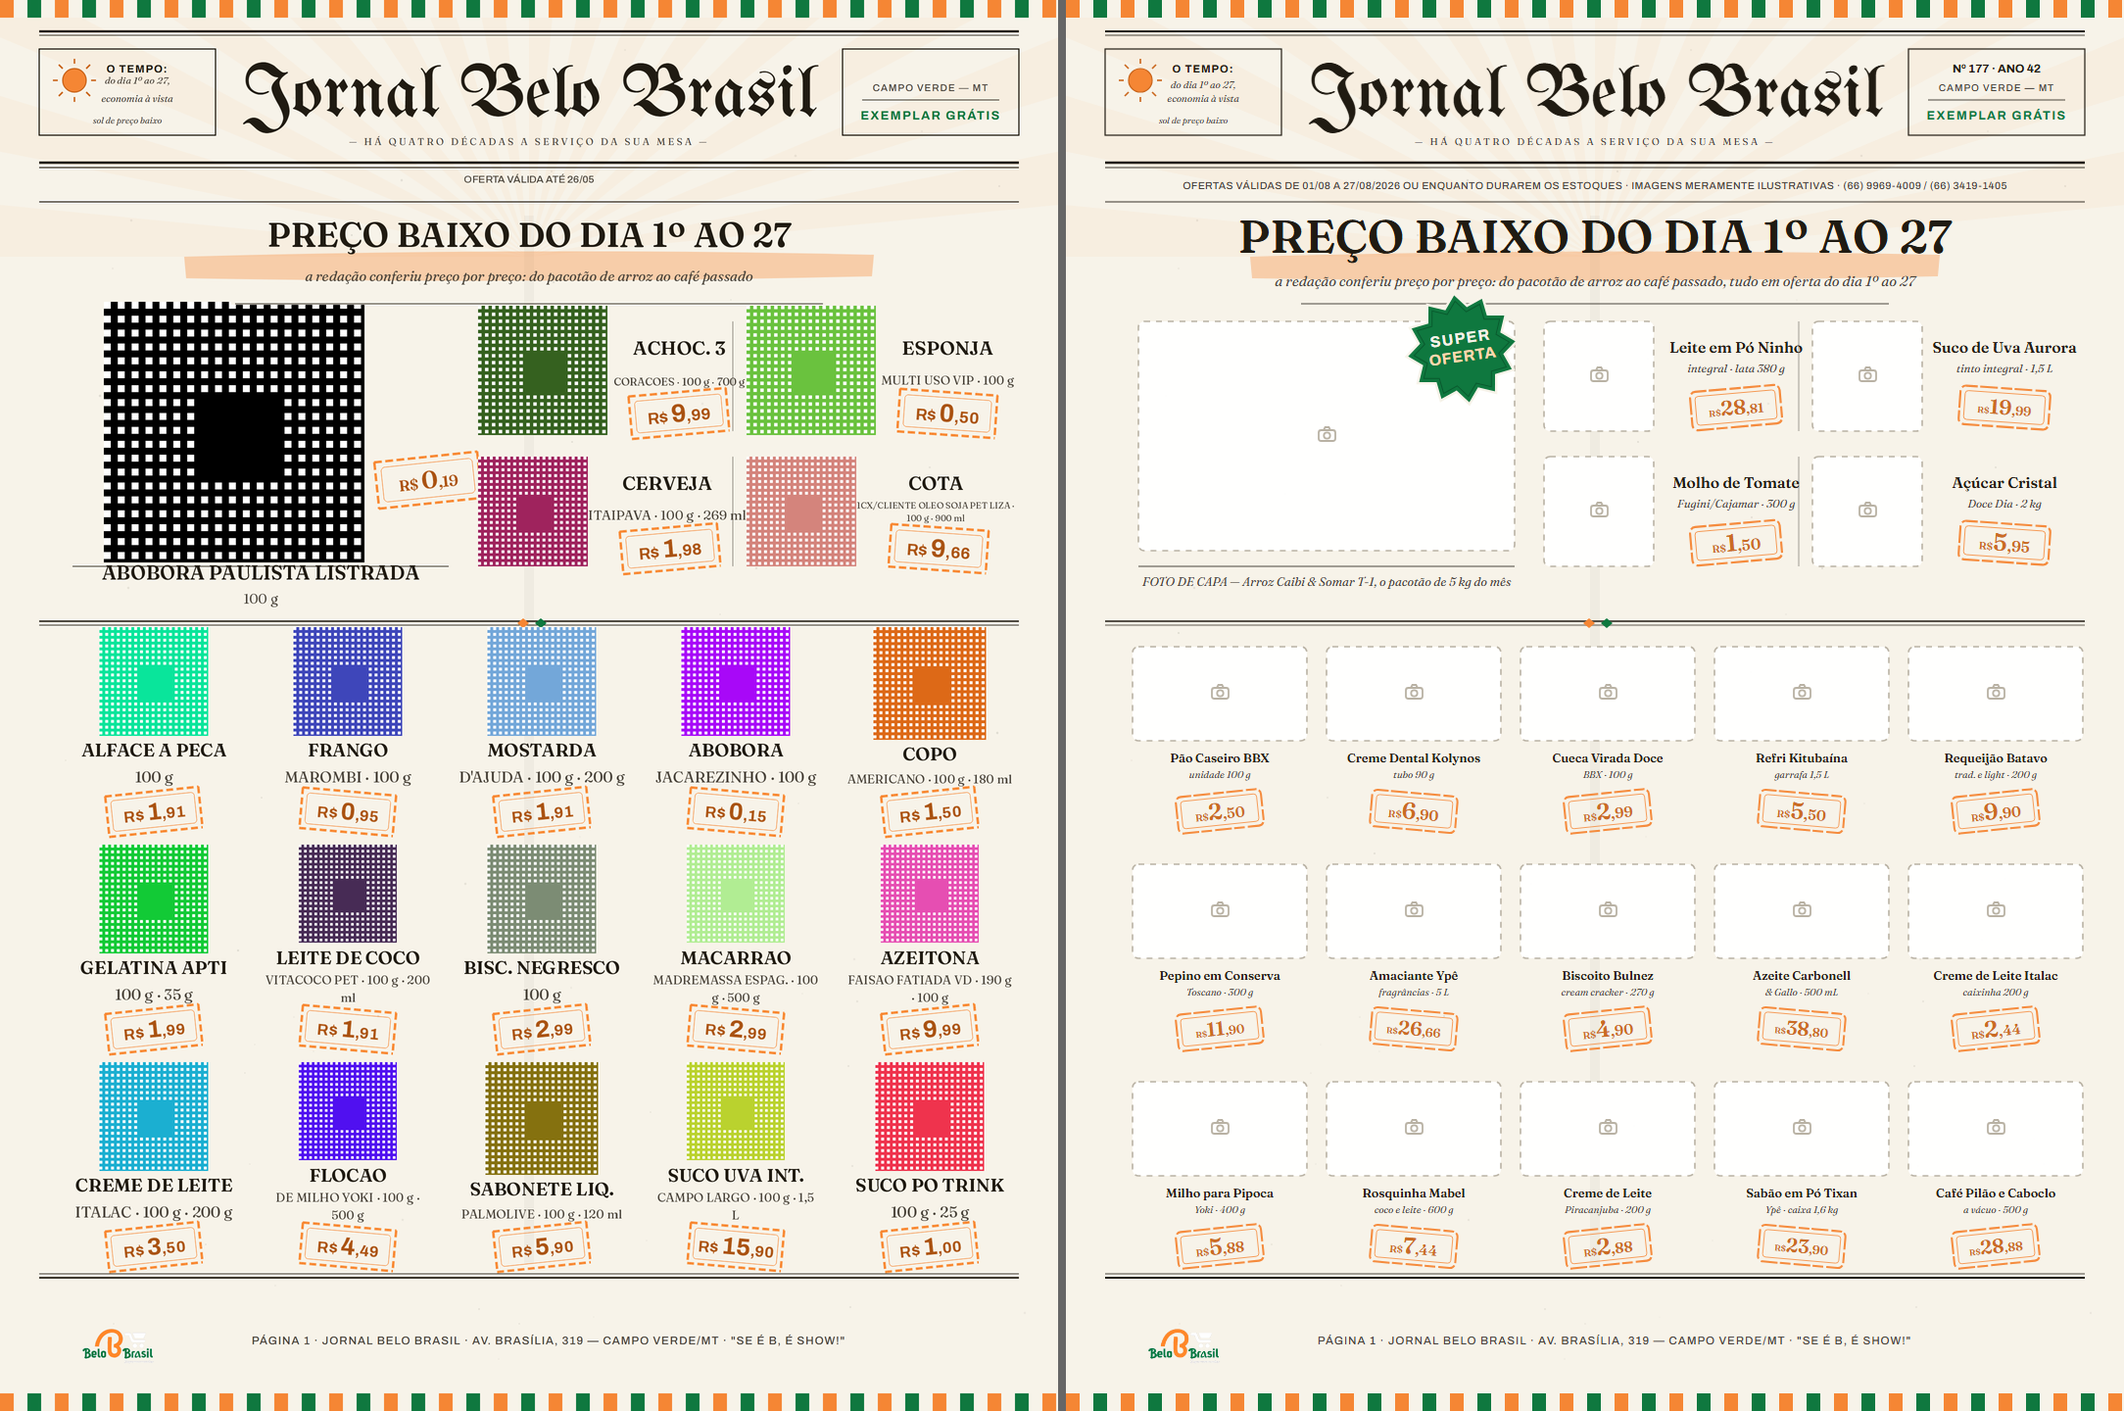
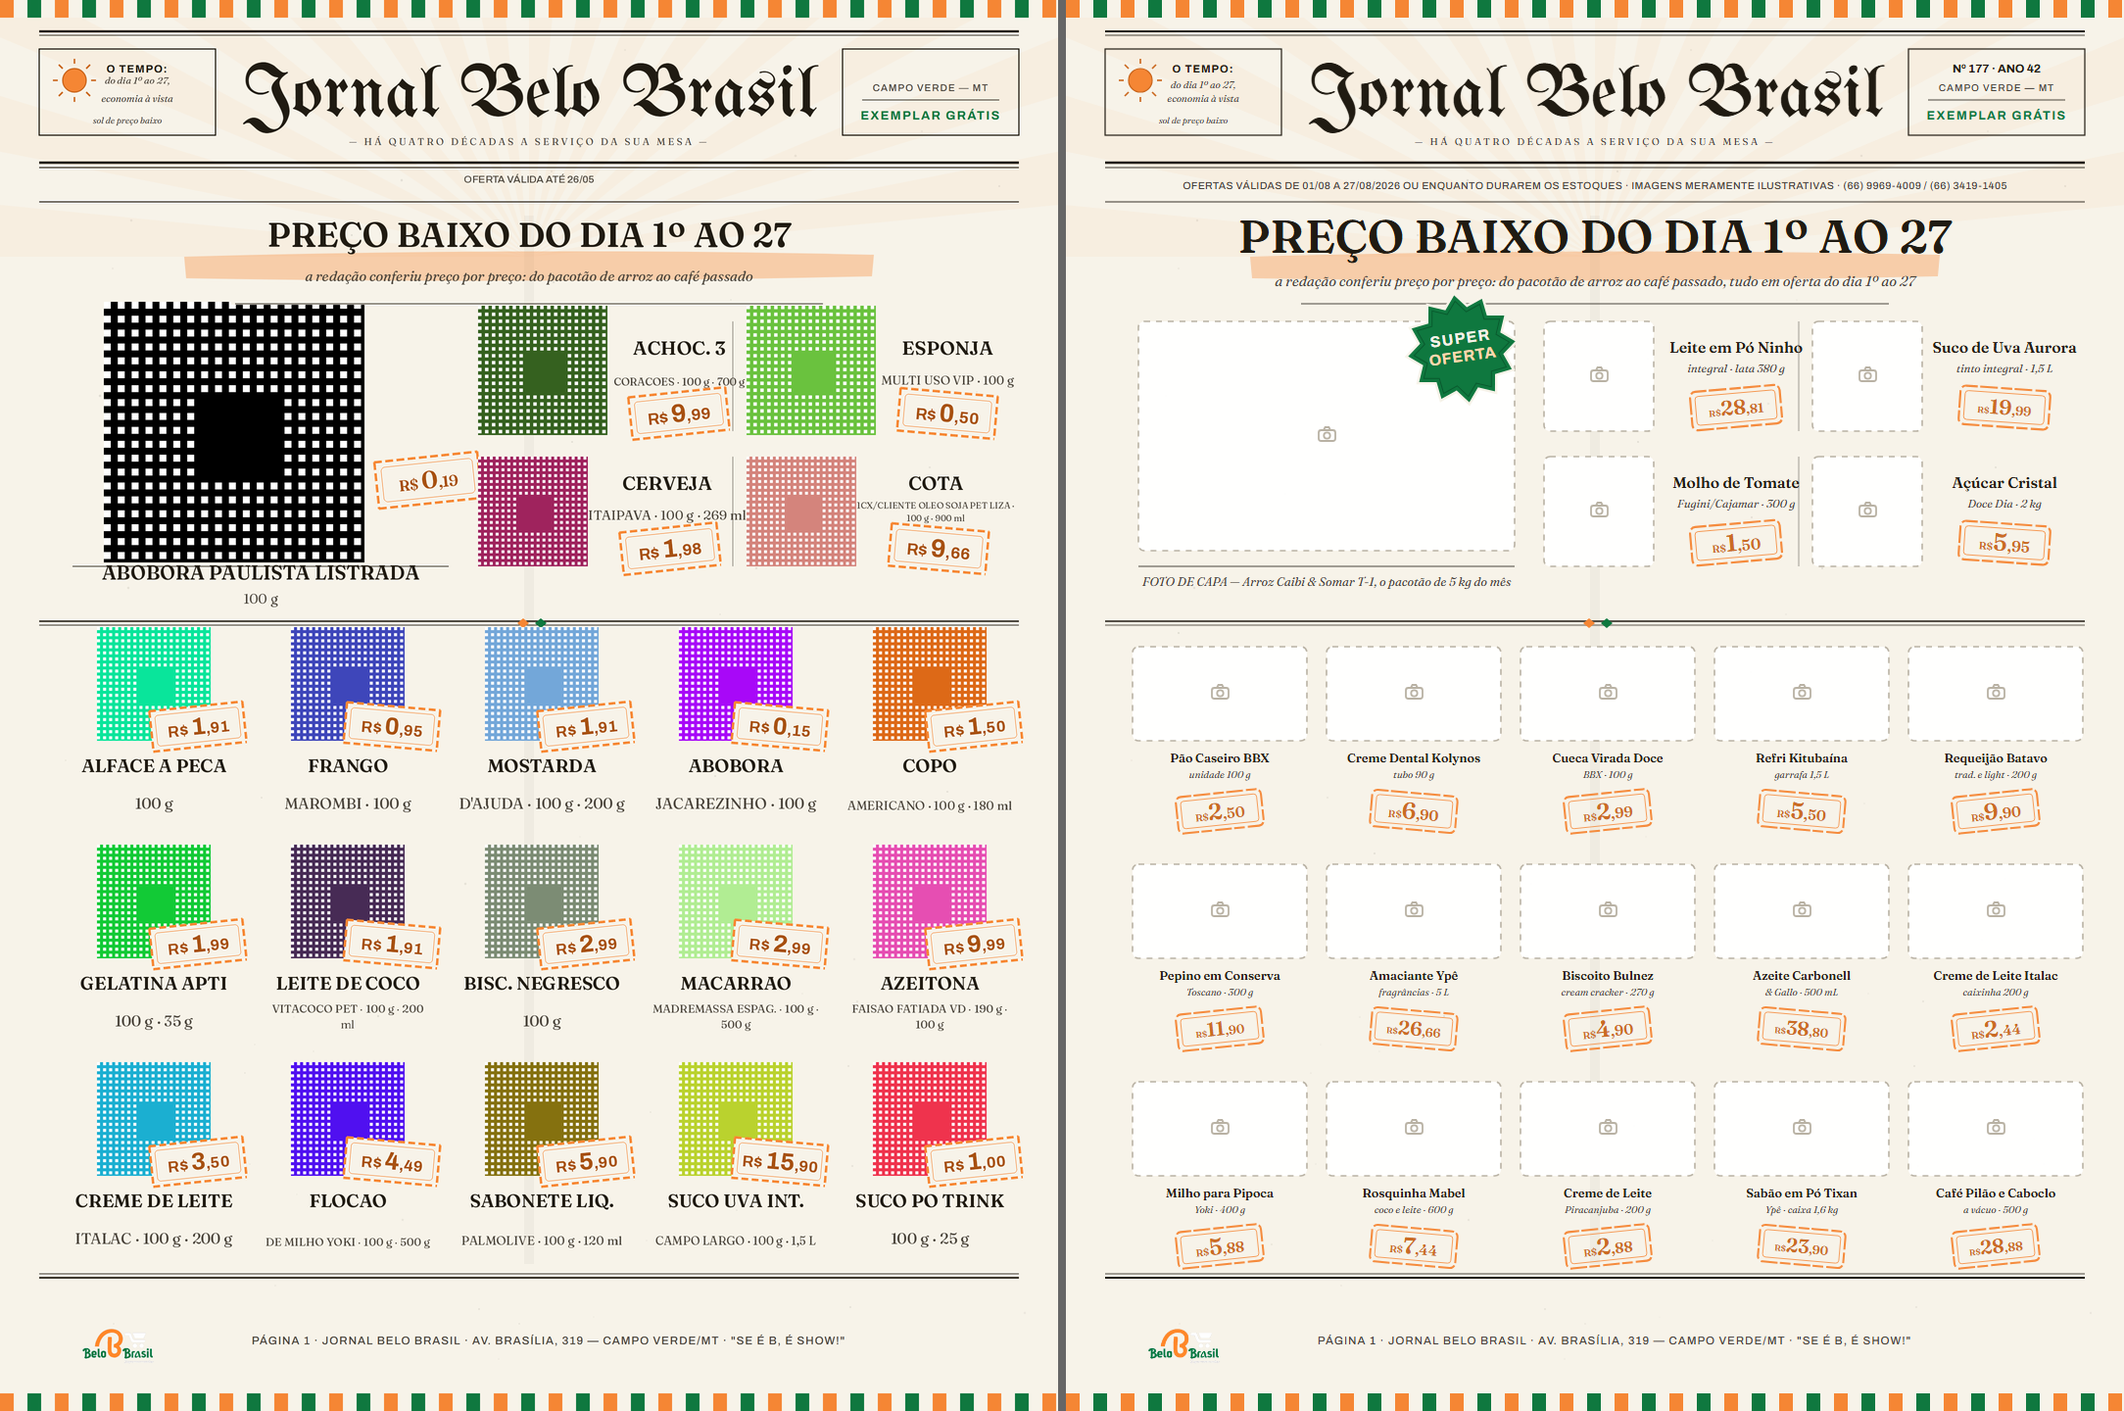
F13 ORDEM DUODEVICESIMUS (04/08): O ITEM ZERO E A LEI DA PROXIMIDADE - a ordem dos 50 olhares do arquiteto, executada na ordem dele: o paragrafo-0 ANTES de qualquer design. O ITEM ZERO ('seu banco esta tres rodadas atrasado'): ele mediu o core.db ANTES dos reimports desta janela e viu o layout 14 co

diff --git a/app/tests/test_rodada_125_v3.py b/app/tests/test_rodada_125_v3.py
@@ -474,3 +474,135 @@ def test_errata_gerar_dica_manda_nome_e_preco():
                           precos=["6,90", "2,99"])
     assert "Sardinha (R$ 6,90)" in vistos["user"], vistos
     assert dica == "Sardinha com macarrao por R$ 9,89"
+
+
+def test_duodevicesimus_import_leva_a_arte_e_preserva_o_dono(
+        tmp_path, monkeypatch):
+    """§0 da DUODEVICESIMUS (o item zero): o banco do dono ficou para
+    trás e ninguém tinha PROVA de que o reimport entrega. Este teste
+    fecha o §0.3: muda um valor no GERADOR → importa → LÊ O BANCO →
+    o valor novo chegou (a ARTE é substituída) E o conteudo_fixo do
+    dono sobrevive (a guarda SEPTIMUS). L16: a verdade se lê de onde
+    o dono compõe."""
+    import json
+    from pathlib import Path
+
+    from app.core.database import Database
+    from app.core.paths import SystemRoot
+    from app.rendering import encartes
+    from app.rendering.model import TipoRegiao
+
+    pacote = Path(__file__).resolve().parents[2] / "Templates novos"
+    if not pacote.is_dir():
+        import pytest
+        pytest.skip("REQUER ACERVO DO DONO: a pasta 'Templates novos/'")
+    raiz = SystemRoot(tmp_path / "raiz")
+    db = Database(raiz).init()
+    try:
+        with db.Session() as s:
+            # 1ª importação (o estado do dono) + o Kit dele num slot
+            encartes.importar_pacote(s, pacote, raiz=raiz)
+            s.commit()
+            from app.core.models import Layout
+            reg = s.query(Layout).filter(
+                Layout.nome == "Jornal do Mês").one()
+            d = json.loads(reg.estrutura_json)
+            d["paginas"][1]["slots"][0]["conteudo_fixo"] = {
+                "produto_id": 77}
+            reg.estrutura_json = json.dumps(d)
+            s.commit()
+        # o GERADOR muda (a cor do preço — o campo da tabela do §0)
+        monkeypatch.setattr(encartes, "_J_LARD", "#123456")
+        with db.Session() as s:
+            encartes.importar_pacote(s, pacote, raiz=raiz)
+            s.commit()
+            reg = s.query(Layout).filter(
+                Layout.nome == "Jornal do Mês").one()
+            d = json.loads(reg.estrutura_json)
+            precos = [r.get("cor") for p in d["paginas"]
+                      for sl in p["slots"] for r in sl["regioes"]
+                      if r.get("tipo") == "PRECO"]
+            # a ARTE substituiu: a cor nova do gerador ESTÁ no banco
+            assert "#123456" in precos, sorted(set(precos))
+            assert "#A85212" not in precos
+            # e o conteúdo do DONO sobreviveu ao reimport
+            fixo = d["paginas"][1]["slots"][0].get("conteudo_fixo")
+            assert fixo == {"produto_id": 77}, fixo
+    finally:
+        db.engine.dispose()
+
+
+def test_duodevicesimus_lei_da_proximidade_no_banco(tmp_path):
+    """§1 da DUODEVICESIMUS: o preço ENCOSTA na foto do próprio
+    produto (sobrepõe o canto — dist < 6 mm) e fica LONGE da foto do
+    produto seguinte (> 12 mm). Antes: 17,7 mm do próprio e −1,8 mm
+    do seguinte — o olho agrupava errado. L16: medido no LAYOUT DO
+    BANCO após o import, o mesmo que o dono compõe — nunca só no
+    gerador."""
+    from pathlib import Path
+
+    from app.core.database import Database
+    from app.core.paths import SystemRoot
+    from app.rendering import encartes
+    from app.rendering.model import TipoRegiao
+    from app.rendering.persistencia import carregar_layout, listar_layouts
+
+    pacote = Path(__file__).resolve().parents[2] / "Templates novos"
+    if not pacote.is_dir():
+        import pytest
+        pytest.skip("REQUER ACERVO DO DONO: a pasta 'Templates novos/'")
+    raiz = SystemRoot(tmp_path / "raiz")
+    db = Database(raiz).init()
+    try:
+        with db.Session() as s:
+            encartes.importar_pacote(s, pacote, raiz=raiz)
+            s.commit()
+            reg = next(r for r in listar_layouts(s)
+                       if r.nome == "Jornal do Mês")
+            lay = carregar_layout(s, reg.id, raiz=raiz)
+    finally:
+        db.engine.dispose()
+    medidas = 0
+    for pag in lay.paginas:
+        fotos_topo = []
+        celulas = []
+        for sl in pag.slots:
+            img = next((r for r in sl.regioes
+                        if r.tipo == TipoRegiao.IMAGEM), None)
+            pr = next((r for r in sl.regioes
+                       if r.tipo == TipoRegiao.PRECO), None)
+            sub = next((r for r in sl.regioes
+                        if r.tipo == TipoRegiao.SUBTITULO), None)
+            if img is None:
+                continue
+            fotos_topo.append((img.rect.y_mm, img.rect.x_mm,
+                               img.rect.x_mm + img.rect.larg_mm))
+            if pr is None or sub is None:
+                continue                 # herói/chamada: outra métrica
+            celulas.append((sl.id, img, pr))
+        for sid, img, pr in celulas:
+            base_foto = img.rect.y_mm + img.rect.alt_mm
+            topo_preco = pr.rect.y_mm
+            base_preco = pr.rect.y_mm + pr.rect.alt_mm
+            px0 = pr.rect.x_mm
+            px1 = pr.rect.x_mm + pr.rect.larg_mm
+            em_coluna = (px1 > img.rect.x_mm
+                         and px0 < img.rect.x_mm + img.rect.larg_mm
+                         and topo_preco >= img.rect.y_mm)
+            if em_coluna:
+                # (1) o preço PERTENCE ao produto: encosta na foto
+                # (<6 mm — no Jornal ele SOBREPÕE o canto, dist < 0)
+                assert topo_preco - base_foto < 6.0, (
+                    f"{sid}: preço a {topo_preco - base_foto:.1f} mm "
+                    "da própria foto — órfão de novo")
+                medidas += 1
+            # (2) o preço fica LONGE de qualquer foto SEGUINTE que o
+            # cruze na horizontal (>12 mm — o produto do vizinho)
+            prox = [t for t, x0, x1 in fotos_topo
+                    if t > base_preco - 1.0
+                    and x1 > px0 and x0 < px1]
+            if prox:
+                folga = min(prox) - base_preco
+                assert folga > 12.0, (
+                    f"{sid}: só {folga:.1f} mm até a foto seguinte")
+    assert medidas >= 30, f"só {medidas} células de coluna medidas"

diff --git a/app/rendering/encartes.py b/app/rendering/encartes.py
@@ -733,29 +733,29 @@ def _jornal_linha(pref: str, slots: list, y: float, n: int,
             # F13-TER: a foto sobe até o fio da linha (recolado).
             # J25: zona_flex — o FIO é filete separador, não "veste" a
             # célula (a guarda do foto_fit aprendeu a diferença).
-            # v4 (a LEI do dono, 4ª prova): NENHUMA informação é comida
-            # — a foto cede 16 px ao BLOCO DE TEXTO (116→100)
-            _img(x + 4, y - 20, 178, 100, flex=True),
-            # v4: nome maior (12,5→13,5, caixa 30 px) e o descritor com
-            # ATÉ 3 LINHAS (36 px) — marcas E sabores por extenso; a
-            # forma "N sabores" foi VETADA pelo dono (risco legal)
-            _nome(x + 8, y + 80, 170, 30, fonte=_F_FRAUNCES,
+            # DUODEVICESIMUS §1 (a LEI DA PROXIMIDADE): a foto CRESCE
+            # (100→116 px) e o carimbo de preço SOBREPÕE o canto
+            # inferior direito dela — o clássico dos encartes: o preço
+            # "gruda" no produto. Antes: 17,7 mm até o próprio produto
+            # e −1,8 mm até o seguinte (o olho agrupava ERRADO).
+            _img(x + 4, y - 20, 178, 116, flex=True),
+            # o carimbo DEPOIS da foto na lista (L-C: preço é a última
+            # camada) — cavalga a borda direita, sobrepondo ~36 px
+            _preco(x + 90, y + 60, 96, 42, fonte=_F_ARCHIVO, rot=rot,
+                   forma=FormaPreco.CARIMBO, forma_cor=_J_LAR,
+                   cor=_J_LARD, tam=23.0, tam_cent=14.5,
+                   centavos_na_base=True),
+            # v4 (a LEI do dono): NENHUMA informação é comida — nome e
+            # descritor abaixo, com o respiro do carimbo rotacionado
+            _nome(x + 8, y + 108, 170, 28, fonte=_F_FRAUNCES,
                   tam=14.0, cor=_J_INK),
             # ERRATA §13.3: o descritor deixa o ITÁLICO (a serifa
             # itálica não segura tinta abaixo de 12 pt no papel) e
             # sobe de corpo — max 11,5 / piso 10,5 (o 8,5 era o que
             # deixava o descritor virar poeira); o piso DURO do
             # compositor segue como exceção anti-tesoura (K3)
-            _sub(x + 8, y + 110, 170, 36, fonte=_F_FRA_RE,
+            _sub(x + 8, y + 138, 170, 34, fonte=_F_FRA_RE,
                  tam=11.5, tam_min=10.5, cor=_J_GRAY),
-            # ORDEM do arquiteto: o preço em PESO de verdade — não
-            # existe Fraunces Bold no projeto (só Regular/Italic/
-            # SemiBold); o Archivo-Bold já está no pacote. ERRATA
-            # §13.3: corpo 20→23 (o pedido do §3 que ficou de fora)
-            _preco(x + 45, y + 147, 96, 42, fonte=_F_ARCHIVO, rot=rot,
-                   forma=FormaPreco.CARIMBO, forma_cor=_J_LAR,
-                   cor=_J_LARD, tam=23.0, tam_cent=14.5,
-                   centavos_na_base=True),
         ], origem=(x + 4, y)))
 
 
@@ -804,7 +804,10 @@ def _jornal_p1() -> list[Slot]:
     splash.forma_cor_borda = "#F7F3E9"
     for i, (x, y) in enumerate(((488, 328), (762, 328),
                                 (488, 466), (762, 466)), start=1):
-        rot = -5.0 if i % 2 else 4.0
+        # DUODEVICESIMUS item 50: DOIS ângulos fixos no jornal inteiro
+        # (−6/+5, os mesmos das linhas) — 4 ângulos diferentes liam
+        # como ruído a 42 repetições
+        rot = -6.0 if i % 2 else 5.0
         dy = 20 if i <= 2 else 18
         slots.append(_slot(f"jp1-ch{i}", [
             # J25: a foto da chamada enche a zona (zona_flex — a régua

diff --git a/app/rendering/compositor.py b/app/rendering/compositor.py
@@ -593,9 +593,16 @@ def _desenhar_forma_preco(base: Image.Image, reg: Regiao, dpi: int) -> None:
             d.rounded_rectangle(caixa, radius=r, outline=borda,
                                 width=esp)
     elif reg.forma_preco == FormaPreco.CARIMBO:
-        # o carimbo do Jornal: borda perfurada + moldura interna, SEM
-        # fundo (espec: carimbo, gen_jornal_final:30)
+        # o carimbo do Jornal: borda perfurada + moldura interna.
+        # DUODEVICESIMUS §1: o carimbo agora CAVALGA a foto do produto
+        # (a lei da proximidade) — a etiqueta é OPACA como todo encarte
+        # faz: fundo do papel por baixo do número (vazado, o laranja
+        # sumia sobre o saco amarelo da Yoki). Sobre o papel creme o
+        # fundo é invisível; sobre a foto, ele faz o preço LER.
         cor_c = reg.forma_cor
+        d.rounded_rectangle((m, m, m + w - 1, m + h - 1),
+                            radius=max(3, round(h * 0.08)),
+                            fill="#F7F3E9")
         sw = max(2, round(h * 0.055))
         passo, traco = max(10, w // 9), max(7, w // 14)
         xx = m

diff --git a/app/core/ortografia.py b/app/core/ortografia.py
@@ -23,6 +23,8 @@ import unicodedata
 # Vocabulário de mercado com forma certa ÚNICA (chave: minúscula, sem
 # acento). Conservador de propósito — na dúvida, a palavra NÃO entra.
 ACENTOS_MERCADO: dict[str, str] = {
+    # DUODEVICESIMUS item 36: "Agua Mineral" saiu impresso sem acento
+    "agua": "água",
     "acucar": "açúcar",
     "po": "pó",
     "pao": "pão",

diff --git a/docs/RODADA_125_O_JORNAL_DO_DONO.md b/docs/RODADA_125_O_JORNAL_DO_DONO.md
@@ -1289,3 +1289,80 @@ por acaso; conferido no recorte), não tinta de texto.
   a IA sozinho ao compor e congela no projeto) — as portas manuais
   existem; o gatilho automático fica nomeado para a próxima rodada.
 - Os extensos das células ("Detg.", "Papel Hig.", "Leite Int. L.V.").
+
+## A ORDEM DUODEVICESIMUS (04/08) — a resposta do builder
+
+### §0 — o item zero, com o SELECT que faltava
+
+O arquiteto tinha razão no que importa: **ninguém nunca provou que o
+reimport entrega, e a prova visual não declarava a fonte**. A linha
+do tempo medida: o SELECT de AGORA no `core.db` (layout 14) mostra
+TUDO atualizado — SUBTITULO #4A443B/Regular/11,5 nas 22 células,
+preço #A85212/Archivo-Bold/23, passo uniforme (topos 29,6/88,4/147,1/
+205,8/264,6). O snapshot da ordem (com o NOME 13,5 da v4 presente e o
+preço/grade pré-SEPTIMUSDECIMUS ausentes) foi tirado ANTES dos dois
+reimports desta janela — o banco ficou para trás exatamente o
+intervalo entre o commit e o reimport, que era invisível porque
+NENHUM teste cobria a ponte. As peças do §0, todas entregues:
+
+1. **A investigação:** o upsert (`importar_pacote`) JÁ substitui a
+   ARTE inteira (o estrutura_json novo do gerador) e preserva SÓ o
+   `conteudo_fixo` por slot.id (a guarda SEPTIMUS) — a separação
+   DONO×ARTE do §0.2 já era o mecanismo; faltava a prova.
+2. **O teste §0.3** — `test_duodevicesimus_import_leva_a_arte_e_
+   preserva_o_dono`: muda `_J_LARD` no gerador → importa → LÊ O BANCO
+   → a cor nova está em TODOS os preços E o conteudo_fixo plantado
+   sobrevive. Verde.
+3. **L16 executada:** a prova visual agora IMPRIME "PROVA COMPOSTA DO
+   BANCO DO DONO (core.db, layout id 14)" no cabeçalho do relatório —
+   e sempre foi composta do banco (o script lê `Layout 14`); o que
+   faltava era DIZER e garantir o reimport ANTES dela, agora parte do
+   ritual.
+
+### §1 — a lei da proximidade (o "preços confundíveis" morre)
+
+A célula de linha foi redesenhada no gesto clássico (§1a): **o
+carimbo SOBREPÕE o canto inferior direito da foto** — o preço gruda
+no produto. A foto CRESCEU (100→116 px) e o texto desceu com o
+respiro do carimbo rotacionado. Antes: 17,7 mm até o próprio produto
+e −1,8 mm até o seguinte; agora: o carimbo TOCA a própria foto e fica
+~26 mm da foto seguinte. Guardião `test_duodevicesimus_lei_da_
+proximidade_no_banco` (L16: mede o layout CARREGADO DO BANCO após o
+import): dist < 6 mm da própria / > 12 mm da seguinte, com mutação
+(preço de volta ao fim = vermelho).
+
+**Achado da prova (e conserto na raiz):** com o carimbo cavalgando a
+foto, o número ficou ILEGÍVEL — o carimbo era VAZADO (só borda + 
+texto) e a foto aparecia através dele (o laranja sumia no saco
+amarelo da Yoki). A etiqueta que sobrepõe foto é OPACA em todo
+encarte do mundo: o ramo CARIMBO do compositor ganhou FUNDO do papel
+(#F7F3E9) — invisível sobre o papel, decisivo sobre a foto.
+
+### Os itens pequenos executados
+
+- **36:** "agua"→"água" no vocabulário (`ortografia.py`) +
+  higienização nominal no banco real (backup
+  `core_pre_duodevicesimus_20260804.db`): id 100 "Água Mineral Marajá
+  500ml S/ Gás" (marca "Marajá" gravada), ids 119/123 "Água e Sal".
+- **50:** DOIS ângulos fixos no jornal inteiro (−6/+5) — as chamadas
+  usavam −5/+4.
+
+### Conflitos DECLARADOS para o dono decidir (não executados)
+
+- **Item 4 (a MARCA entra no nome):** conflita com a decisão do DONO
+  na 2ª prova da v2 ("Cadê a hierarquia?" — o TIPO grande, a marca no
+  descritor, decisão de motor). "Nutella grande" reverte aquilo — só
+  com o selo dele.
+- **Item 39 (SUPER OFERTA com número):** é o conflito K2 já declarado
+  — o dono mandou o carimbo SEM valor ("não pode ter o valor junto").
+
+### Ficou de fora (nomeado, Ondas 2–4)
+
+Patamares de corpo por preço (2) e âncoras de destaque (3) — dependem
+do "destaque" ser decisão visível do dono na Mesa; a normalização de
+escala/linha de base das fotos (22/23) e as fotos cortadas
+(19/20/21); os mm do rodapé (14/15/16); a caixa da dica que não se
+desenha vazia (41 — as pautas são da ARTE; o plano: a caixa sai da
+BASE e vira desenho condicional); os extensos (33/34); a validade 2×
+(42); o "SE É B" 2× (43); a edição na p1 (44); preço por unidade de
+medida (45); estoques/limite (46); e os demais de F.
